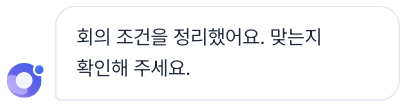
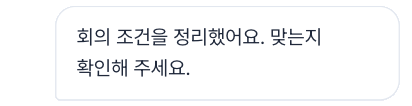
fix: NODI 히어로 말풍선 정리, 상세페이지 불필요한 캡션·검증 안내 제거, 핵심 결정 문장 의미 단위 분리

Changed region(s): [[0.0, 0.5943, 0.1165, 0.934]]

diff --git a/src/pages/CaseNodi.tsx b/src/pages/CaseNodi.tsx
@@ -80,7 +80,6 @@ export default function CaseNodi() {
     })
     return () => mm.revert()
   }, [])
-  const validation = paras('validation')
 
   return (
     <article ref={root} style={{ ['--brand' as string]: p.accent }}>
@@ -108,13 +107,13 @@ export default function CaseNodi() {
             <div className="mt-14 md:mt-0 md:col-span-6">
               {/* 모바일: 말풍선이 폰 밖으로 돌출하면 글자가 너무 작아져, 위에 읽히는 크기의 콜아웃으로 놓는다 */}
               <div className="mx-auto mb-5 max-w-[360px] space-y-3 md:hidden">
-                <img src="/images/nodi/hero-pop-user.png" alt="사용자 입력: 다음주 화요일에 디자인팀 5명 1시간 미팅 시간 잡아줘" loading="lazy" className="ml-0 h-auto w-[82%] drop-shadow-[0_10px_18px_rgba(24,36,58,.18)]" />
-                <img src="/images/nodi/hero-pop-ai.png" alt="NODI 응답: 회의 조건을 정리했어요. 맞는지 확인해 주세요." loading="lazy" className="ml-auto h-auto w-[78%] drop-shadow-[0_10px_18px_rgba(24,36,58,.18)]" />
+                <img src="/images/nodi/hero-pop-user.png?v=2" alt="사용자 입력: 다음주 화요일에 디자인팀 5명 1시간 미팅 시간 잡아줘" loading="lazy" className="ml-0 h-auto w-[82%] drop-shadow-[0_10px_18px_rgba(24,36,58,.18)]" />
+                <img src="/images/nodi/hero-pop-ai.png?v=2" alt="NODI 응답: 회의 조건을 정리했어요. 맞는지 확인해 주세요." loading="lazy" className="ml-auto h-auto w-[78%] drop-shadow-[0_10px_18px_rgba(24,36,58,.18)]" />
               </div>
               <div data-rise className="relative mx-auto w-[58%] md:w-[60%]">
                 <Zoomable src="/images/nodi/hero-phone-card.png?v=2" alt="NODI 조건 확인 화면: AI가 정리한 회의 조건 카드와 참석자 선택하기 버튼" caption="회의 조건을 확인해 주세요" className="block w-full" imgClass="block h-auto w-full" />
-                <UIPopout src="/images/nodi/hero-pop-user.png" alt="사용자 입력: 다음주 화요일에 디자인팀 5명 1시간 미팅 시간 잡아줘" className="hidden md:block md:left-[-36%] md:top-[17%] md:w-[60%] lg:left-[-66%] lg:w-[86%]" />
-                <UIPopout src="/images/nodi/hero-pop-ai.png" alt="NODI 응답: 회의 조건을 정리했어요. 맞는지 확인해 주세요." className="hidden md:block md:right-[-36%] md:top-[27%] md:w-[60%] lg:right-[-66%] lg:w-[86%]" />
+                <UIPopout src="/images/nodi/hero-pop-user.png?v=2" alt="사용자 입력: 다음주 화요일에 디자인팀 5명 1시간 미팅 시간 잡아줘" className="hidden md:block md:left-[-36%] md:top-[17%] md:w-[60%] lg:left-[-66%] lg:w-[86%]" />
+                <UIPopout src="/images/nodi/hero-pop-ai.png?v=2" alt="NODI 응답: 회의 조건을 정리했어요. 맞는지 확인해 주세요." className="hidden md:block md:right-[-36%] md:top-[27%] md:w-[60%] lg:right-[-66%] lg:w-[86%]" />
               </div>
             </div>
           </div>
@@ -210,7 +209,6 @@ export default function CaseNodi() {
               <Ph n="required" cap="일정 필수 설정" />
             </div>
           </div>
-          <p className="mt-8 text-[13px] text-sub max-w-3xl">프로토타입의 참석자 응답과 캘린더 상태는 기능 설명을 위한 예시 데이터입니다.</p>
 
           {/* Solution 02 */}
           <div className="mt-28 md:mt-40">
@@ -291,7 +289,6 @@ export default function CaseNodi() {
             <ul className="mt-4 space-y-3 text-[17px] text-ink/80">{['외부 캘린더 API 연동', '실제 캘린더 데이터 자동 수집', 'AI 모델 호출 (자연어 해석과 추천은 규칙 기반)'].map(t => <li key={t} className="flex gap-3"><span aria-hidden className="text-sub">–</span>{t}</li>)}</ul>
           </div>
         </div>
-        <p className="mt-6 text-[13px] text-sub max-w-3xl leading-relaxed">참석자 응답과 캘린더 상태는 예시 데이터입니다. 자연어 입력은 규칙 기반 데모이며, 알림 발송과 캘린더 반영은 실제로 처리되지 않습니다.</p>
         <InteractionPreview p={p} wide={wide} onOpen={() => setOpen(true)} title="직접 눌러보세요" note="화면 이미지는 v6 시안과 세부가 다를 수 있습니다." />
       </section>
 
@@ -397,36 +394,8 @@ export default function CaseNodi() {
             </div>
             <div className="mt-8 md:mt-0 md:col-span-6 flex justify-center"><div className="w-full max-w-[340px] rounded-[14px] overflow-hidden border border-black/15 bg-white"><Zoomable src="/images/nodi/tablet-start.webp" alt="NODI 태블릿 폭(820px) 화면: 아이콘 레일 내비게이션과 대화 영역" caption="태블릿 폭(820px)" className="w-full" imgClass="block w-full" /></div></div>
           </div>
-          <p className="mt-4 text-[13px] text-sub max-w-3xl">웹 화면은 가상 데이터를 사용한 체험용 데모를 1440px와 820px 폭에서 캡처했습니다. 실제 일정은 등록되지 않습니다.</p>
         </div>
       </section>
-      {/* 04 Outcome */}
-      <section className="scroll-mt-20 rule">
-        <div className="wrap gutter py-20 md:py-32">
-          <ChapterHead color={S} n="A3" label="Outcome" title="점검한 것과 아직 확인하지 못한 것" />
-          <div className="mt-14 md:grid md:grid-cols-12 gap-10">
-            <ul className="md:col-span-5 grid grid-cols-3 md:grid-cols-1 gap-4">
-              {[['0', '44px 미만 터치 영역'], ['0', '13px 미만 글자'], ['19', '클릭 시나리오 통과']].map(([n, l]) => (
-                <li key={l} className="rounded-[20px] p-5 md:p-7" style={{ background: T(9) }}>
-                  <p className="text-[44px] md:text-[72px] font-extrabold leading-none tracking-tight" style={{ color: S }}>{n}</p>
-                  <p className="mt-2 text-[14px] md:text-[16px]">{l}</p>
-                </li>
-              ))}
-              <li className="col-span-3 md:col-span-1 text-[13px] text-sub leading-relaxed">자체 점검 스크립트 기준입니다. 사용자 테스트 결과가 아닙니다.</li>
-            </ul>
-            <div className="md:col-span-7 mt-10 md:mt-0 text-[17px] leading-[1.8] space-y-4">
-              {validation.map(t => <p key={t} className={t.startsWith('확인 필요') ? 'text-sub' : ''}>{t}</p>)}
-            </div>
-          </div>
-          <div className="mt-16 rounded-[28px] p-7 md:p-10 bg-[#F7F8FA]">
-            <p className="inline-flex px-3 py-1.5 rounded-full bg-ink text-white text-[13px] font-semibold">검증 계획 · 아직 수행하지 않음</p>
-            <h3 className="mt-4 text-[24px] md:text-[32px] font-extrabold tracking-tight leading-tight max-w-[24ch]">프로토타입으로 확인할 일곱 가지</h3>
-            <ol className="mt-6 grid sm:grid-cols-2 gap-3 text-[15px] leading-snug">{['조건 확인 정확도', '조건 수정 성공률', '필수 참석자 설정 성공 여부', '추천 후보 비교 성공률', '후보 선택 소요 시간', '저장 상태 이해 정확도(저장·캘린더·알림 구분)', '오류 상황에서 다음 행동 선택 여부'].map((x, i) => <li key={x} className="rounded-[20px] bg-white p-4"><span className="text-[13px] font-semibold" style={{ color: S }}>0{i + 1}</span> {x}</li>)}</ol>
-            <p className="mt-5 text-[15px] leading-relaxed text-sub max-w-3xl">예정 방법: 과제 수행 과정을 관찰하고 혼란이 발생한 지점과 발화를 기록합니다. 이후 초기·개선 시안의 행동을 비교해 재설계합니다. 아직 수행하지 않아 수치와 인용문은 제시하지 않습니다.</p>
-          </div>
-        </div>
-      </section>
-
       <ProjectIndex current={'nodi'} />
       <Link to={`/work/${next.slug}`} className="group block rule">
         <div className="wrap gutter py-14 md:py-20 flex items-end justify-between gap-6">

diff --git a/src/pages/CaseGeneric.tsx b/src/pages/CaseGeneric.tsx
@@ -473,8 +473,7 @@ function Karrot({ c }: { c: Ctx }) {
         <Reveal><blockquote className="mt-10 text-[28px] md:text-[40px] font-bold tracking-tight leading-snug max-w-[26ch]" style={{ borderLeft: `6px solid ${A}`, paddingLeft: 24 }}>{p.problem}</blockquote></Reveal>
         <ul className="mt-12 grid md:grid-cols-3 gap-5">{[['크기', '가로·세로·높이를 설명에서 찾아야 함'], ['분해 · 운반', '분해 가능 여부와 가져가는 조건이 문장으로 흩어짐'], ['반복 질문', '판매자에게 같은 질문을 되풀이해야 할 수 있음']].map(([a, b]) => <li key={a} className="rounded-[20px] p-6" style={{ background: T(14) }}><p className="text-[13px] font-semibold" style={{ color: S }}>{a}</p><p className="mt-2 text-[17px] leading-snug">{b}</p></li>)}</ul>
         <div className="mt-14"><p className="eyebrow text-sub">실제 당근 앱 · AS-IS 캡처</p>
-          <ul className="mt-5 grid grid-cols-3 gap-4 md:grid-cols-5 md:gap-6 max-w-5xl">{[['asis-write', '판매글 작성: 제목·설명·가격만 입력'], ['asis-write-ai', '사진 분석 중(AI 작성)'], ['asis-search', '대형가구 검색 결과'], ['asis-desc', '상품 본문: 크기가 문장 속에'], ['asis-loc', '거래 장소·용달비 안내']].map(([n, l]) => <li key={n}><Fig src={I(n)} alt={`실제 당근 앱 ${l}`} cap={l} /></li>)}</ul>
-          <p className="mt-4 text-[13px] text-sub max-w-3xl">실제 앱 화면 캡처이며 판매자 닉네임, 거래 장소 주소·지도, 캡처한 사람의 정보는 가렸습니다. 판매글 작성 화면 두 장은 동네 이름과 거래 희망 장소를 가리지 않았습니다.</p></div>
+          <ul className="mt-5 grid grid-cols-3 gap-4 md:grid-cols-5 md:gap-6 max-w-5xl">{[['asis-write', '판매글 작성: 제목·설명·가격만 입력'], ['asis-write-ai', '사진 분석 중(AI 작성)'], ['asis-search', '대형가구 검색 결과'], ['asis-desc', '상품 본문: 크기가 문장 속에'], ['asis-loc', '거래 장소·용달비 안내']].map(([n, l]) => <li key={n}><Fig src={I(n)} alt={`실제 당근 앱 ${l}`} cap={l} /></li>)}</ul></div>
         <p className="mt-10 text-[13px] text-sub max-w-3xl">앱 리뷰·블로그 VOC와 인터뷰를 근거로 PRD 문제를 정의했습니다. 원자료가 없어 표본 수와 수치는 싣지 않았고, 발생 빈도와 영향은 사용성 테스트로 검증해야 하는 디자인 가설입니다.</p>
       </section>
 
@@ -641,7 +640,6 @@ function Karrot({ c }: { c: Ctx }) {
         <h3 className="mt-4 text-[28px] md:text-[40px] font-bold tracking-tight">실제 당근 앱 vs 대형 가구 거래 개선안</h3>
         <p className="mt-3 text-[16px] text-sub max-w-[62ch]">현재 화면(BEFORE)과 개선안(AFTER)을 나란히 비교했습니다. 빨간 박스와 번호로 기존 화면의 문제 지점을 표시하고, 오른쪽 표에서 개선 내용을 설명합니다.</p>
         <div className="mt-10 space-y-6 md:space-y-10">{karrotCompare.map(d => <CompareSection key={d.n} d={d} color={A} />)}</div>
-        <p className="mt-6 text-[13px] text-sub max-w-3xl">※ Before는 실제 당근 앱을 직접 캡처한 화면이며 판매자 닉네임은 가렸습니다. After는 직접 설계한 개선안이며 상품 정보는 예시입니다.</p>
       </section>
 
       <section id="c4" className="wrap gutter py-20 md:py-32 scroll-mt-20 md:mt-24">
@@ -694,7 +692,6 @@ function Woorisai({ c }: { c: Ctx }) {
           </div>
         </div>
       </section>
-      <p className="wrap gutter pt-8 text-[13px] text-sub text-center">실제 프로토타입 화면 캡처 · 사진은 Unsplash 예시 이미지, 이름과 내용은 예시 데이터</p>
       <CaseSummary p={p} />
 
       <section aria-label="프로젝트 이해하기" className="wrap gutter pt-20 md:pt-28">
@@ -829,7 +826,6 @@ function Woorisai({ c }: { c: Ctx }) {
               </div>
               <div className="mt-6"><Need t="전체 댓글·답글 바텀시트 화면 캡처" /></div>
             </div>
-            <div className="mt-12 rounded-[20px] bg-white border border-grid p-6"><p className="eyebrow text-sub">검증 계획 (미수행)</p><ul className="mt-3 text-[16px] leading-[1.8] list-disc pl-5"><li>사진 단위 반응·댓글 사용 비율을 초기·개선 버전으로 비교</li><li>‘함께 남기는 추억’과 ‘반응’을 구분해 이해하는지 과제 기반 관찰</li></ul><p className="mt-3 text-[13px] text-sub">아직 수행하지 않았고, 결과는 없습니다.</p></div>
           </Reveal>
 
           <Reveal className="mt-24 md:mt-32">

diff --git a/src/pages/CaseTrigr.tsx b/src/pages/CaseTrigr.tsx
@@ -16,7 +16,7 @@ const PINK = '#DE5DE2', TEAL = '#2FD1CD' // 출시 화면에서 추출한 색
 const T = (n: number) => tintOf(PINK, n)
 const S = strongOf(PINK)
 const I = (n: string) => `/images/trigr/${n}.webp`
-const list = [['c1', '개요'], ['c2', '맥락'], ['c3', '상금 지급'], ['c4', '정산 신청'], ['c5', '보조 흐름'], ['c6', '시스템'], ['c7', '검증 계획'], ['c8', '회고']]
+const list = [['c1', '개요'], ['c2', '맥락'], ['c3', '상금 지급'], ['c4', '정산 신청'], ['c5', '보조 흐름'], ['c6', '시스템'], ['c8', '회고']]
 
 // 실제 화면 하나를 밝은 폰 프레임에 넣고 클릭하면 확대
 function Screen({ src, alt, caption, className = '' }: { src: string; alt: string; caption?: string; className?: string }) {
@@ -88,7 +88,6 @@ const flows: [string, string, string][] = [
   ['인증 피드', I('tr-proofs'), '인증 모아보기'],
   ['활동·포인트 확인', I('tr-my-1'), '마이페이지 활동과 포인트'],
 ]
-const validation = ['테스트 목적', '테스트 참여자 수', '수행 과제', '과제 성공 여부', '주요 관찰 내용', '발견한 문제', '후속 개선안']
 
 export default function CaseTrigr() {
   const root = useRef<HTMLElement>(null)
@@ -222,20 +221,6 @@ export default function CaseTrigr() {
               <p className="text-[15px] font-bold" style={{ color: S }}>Figma Variables · 컴포넌트 · 라이트/다크 · 다국어</p>
               <p className="mt-2 text-[15px] leading-snug text-sub">원본 Figma 자료가 확인되면 화면을 추가합니다. 남아 있지 않은 토큰이나 Variables는 당시 작업물처럼 재현하지 않습니다.</p>
             </div>
-          </div>
-        </div>
-      </section>
-
-      {/* 07 Validation Plan */}
-      <section id="c7" className="scroll-mt-20 md:mt-24" style={{ background: T(9) }}>
-        <div className="wrap gutter py-20 md:py-32">
-          <ChapterHead color={S} n="07" label="Validation Plan" title="출시 당시 검증하지 못한 사용자 흐름이 남아 있습니다" />
-
-          <div className="mt-14 rounded-[28px] bg-white border border-grid p-6 md:p-10">
-            <div className="flex flex-wrap items-center gap-3"><Tag>Validation Planned</Tag></div>
-            <h3 className="mt-4 apple-h text-[26px] md:text-[40px] max-w-[22ch]">사용성 테스트에서 확인할 항목을 정리했습니다</h3>
-            <p className="mt-4 max-w-[56ch] text-[16px] leading-[1.75] text-sub">현재 사용성 테스트 결과는 없습니다. 향후 테스트에서 확인할 항목을 아래와 같이 정리했습니다.</p>
-            <ul className="mt-7 grid sm:grid-cols-2 md:grid-cols-4 gap-3">{validation.map(v => <li key={v} className="rounded-[16px] border border-dashed px-4 py-4" style={{ borderColor: T(45) }}><p className="text-[15px] font-semibold">{v}</p><p className="mt-1 text-[13px] text-sub">테스트 후 입력</p></li>)}</ul>
           </div>
         </div>
       </section>

diff --git a/src/data/projects.ts b/src/data/projects.ts
@@ -187,7 +187,7 @@ export const projects: Project[] = [
     role: '기획 · 디자인 · 프로토타입 구현 (1인)',
     period: '2026.10.15 – 2026.10.23 (1주)',
     tags: ['신규 제품 설계', '규칙·예외 정책', '일정 추천'],
-    summary: { concept: [['이해', 'AI는 말을 이해하고 설명'], ['결정', '후보는 사용자가 고르고 확정'], ['구분', '일정 가능·참석 수락·캘린더·알림을 따로 표시'], ['예외', '실패·후보 없음·계산 중 화면까지 설계']], short: 'AI는 이해하고 사용자는 결정한다', about: '여러 사람의 일정과 선호 조건을 정리해 적절한 회의 시간을 추천하는 서비스입니다. AI는 조건과 추천 이유를 설명하고, 최종 시간은 사용자가 직접 선택합니다.', decision: 'AI는 자연어 조건을 해석하고 추천 이유를 설명합니다. 참석자, 날짜, 시간 후보 선택과 최종 확정은 사용자가 직접 수행하도록 구분했습니다.', status: '직장인 6명의 인터뷰를 바탕으로 설계하고 클릭 시나리오 19개를 점검했습니다. 추천 기능은 규칙 기반 데모이며, 사용성 테스트는 진행하지 않았습니다.', kind: 'design' },
+    summary: { concept: [['이해', 'AI는 말을 이해하고 설명'], ['결정', '후보는 사용자가 고르고 확정'], ['구분', '일정 가능·참석 수락·캘린더·알림을 따로 표시'], ['예외', '실패·후보 없음·계산 중 화면까지 설계']], short: 'AI는 이해하고 사용자는 결정한다', about: '여러 사람의 일정과 선호 조건을 정리해 적절한 회의 시간을 추천하는 서비스입니다. AI는 조건과 추천 이유를 설명하고, 최종 시간은 사용자가 직접 선택합니다.', decision: 'AI는 회의 조건을 해석하고, 추천 시간과 그 이유를 제시합니다.\n참석자와 시간 후보 선택부터 최종 확정까지는 사용자가 직접 수행합니다.', status: '직장인 6명의 인터뷰를 바탕으로 설계하고 클릭 시나리오 19개를 점검했습니다. 추천 기능은 규칙 기반 데모이며, 사용성 테스트는 진행하지 않았습니다.', kind: 'design' },
     accent: '#3654D4',
     mock: { srcs: ['/images/nodi/m-home.webp', '/images/nodi/m-recs.webp', '/images/nodi/m-review.webp'], framed: false },
     beforeAfter: [

diff --git a/src/components/case.tsx b/src/components/case.tsx
@@ -133,7 +133,7 @@ export function CaseSummary({ p }: { p: Project }) {
           <div className={`${cell} md:col-span-7`}><p className={h}>해결한 문제</p><p className="mt-2 text-[18px] md:text-[20px] font-bold leading-snug">{p.problem}</p></div>
           <div className={`${cell} md:col-span-5`}><p className={h}>내 역할</p><p className="mt-2 text-[17px] font-semibold leading-snug">{p.role}</p><p className="mt-1 text-[14px] text-sub">{p.period}</p><ul className="mt-3 flex flex-wrap gap-1.5">{p.tags.map(t => <li key={t} className="text-[13px] px-2.5 py-1 rounded-full bg-[#f5f5f7]">{t}</li>)}</ul></div>
           
-          <div className={`${cell} md:col-span-12`}><p className={h}>핵심 결정</p><p className="mt-2 text-[20px] md:text-[26px] font-bold tracking-tight leading-snug max-w-[40ch]">{p.summary.decision}</p></div>
+          <div className={`${cell} md:col-span-12`}><p className={h}>핵심 결정</p><p className="mt-2 text-[20px] md:text-[26px] font-bold tracking-tight leading-snug whitespace-pre-line [text-wrap:pretty] md:max-w-none max-w-[40ch]">{p.summary.decision}</p></div>
           <ul aria-label="컨셉 키워드" className="md:col-span-12 grid grid-cols-2 md:grid-cols-4 gap-3 md:gap-4">{p.summary.concept.map(([k, d], i) => <li key={k} className="rounded-[20px] p-5 md:p-6" style={{ background: tintOf(p.accent, 16), border: `1px solid ${tintOf(p.accent, 34)}` }}><p className="text-[13px] font-semibold" style={{ color: S }}>CONCEPT 0{i + 1}</p><p className="mt-3 apple-h text-[24px] md:text-[30px] text-ink">{k}</p><p className="mt-2 text-[15px] leading-snug text-ink/80">{d}</p></li>)}</ul>
         </Reveal>
       </div>
